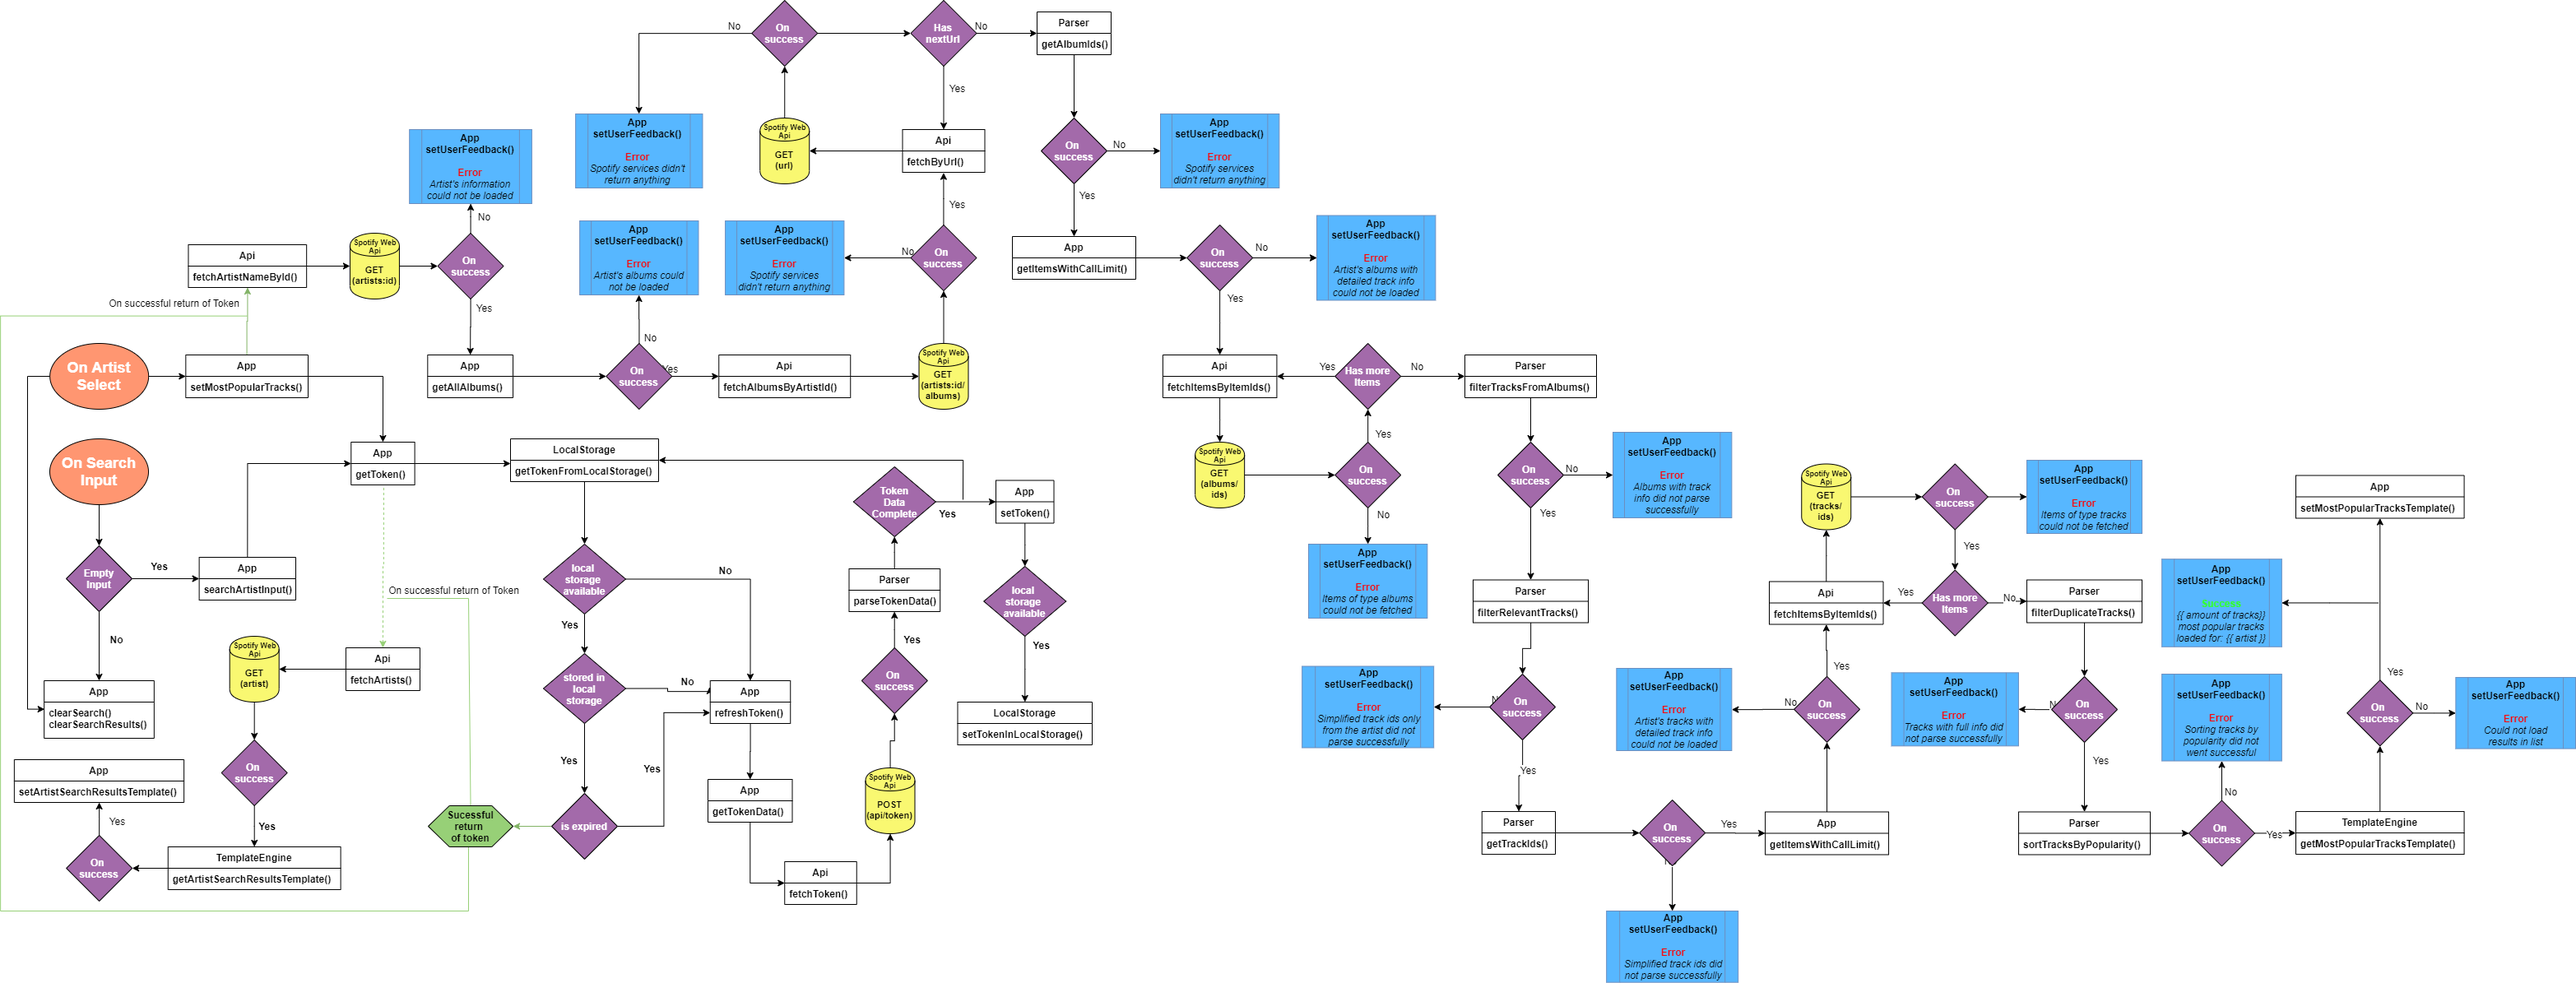
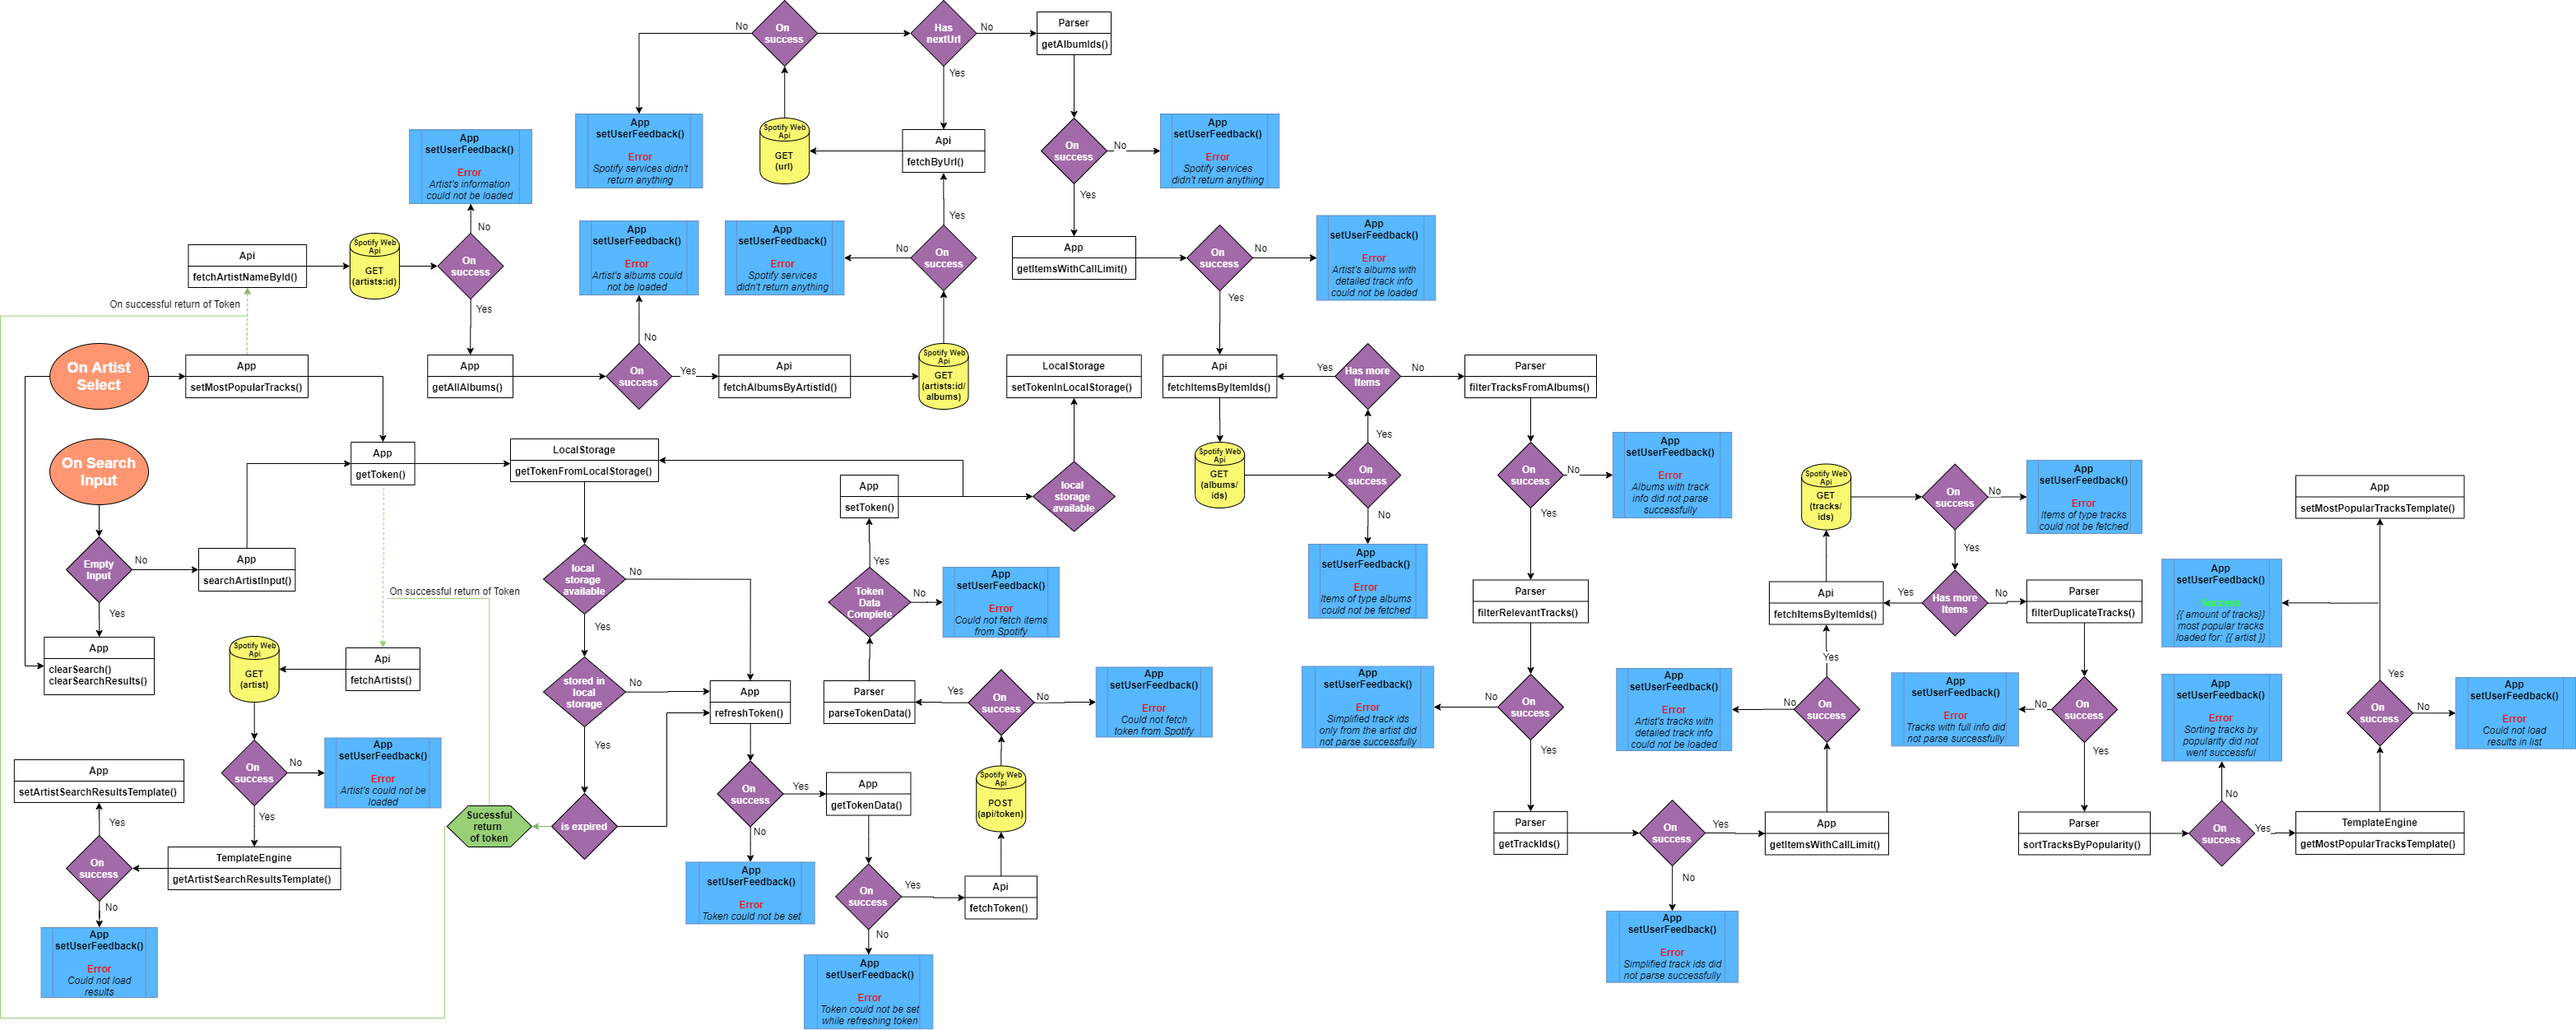
Added final changes to interaction diagram. Fixed feedback response

diff --git a/week-3/public/js/app.js b/week-3/public/js/app.js
@@ -186,7 +186,7 @@ async function searchArtistInput(input) {
 
     // Get the artists
     const artists = await Api.fetchArtists(input, token)
-    if (!artists) { setUserFeedback("Artist's could not be loaded loaded"); return }
+    if (!artists) { setUserFeedback("Artist's could not be loaded"); return }
 
     // Fill in and get the template with the search results
     const searchResultsHtml = TemplateEngine.getArtistSearchResultsTemplate(artists);
